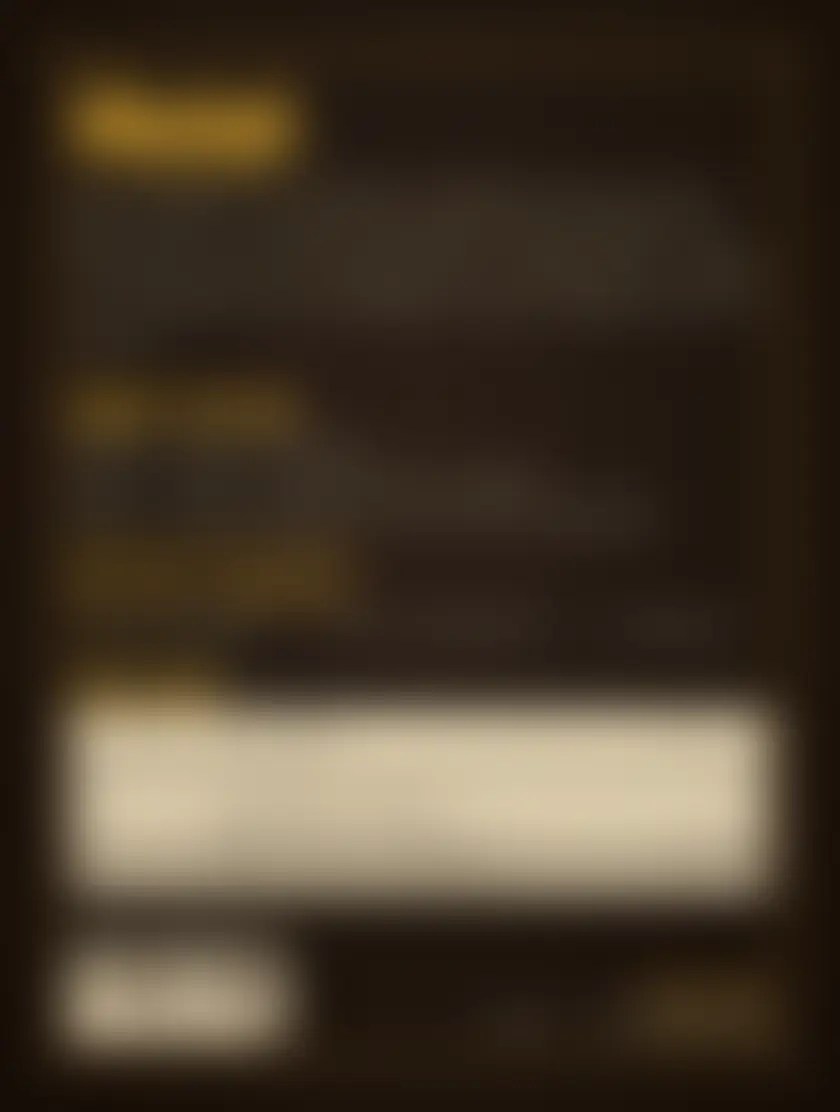
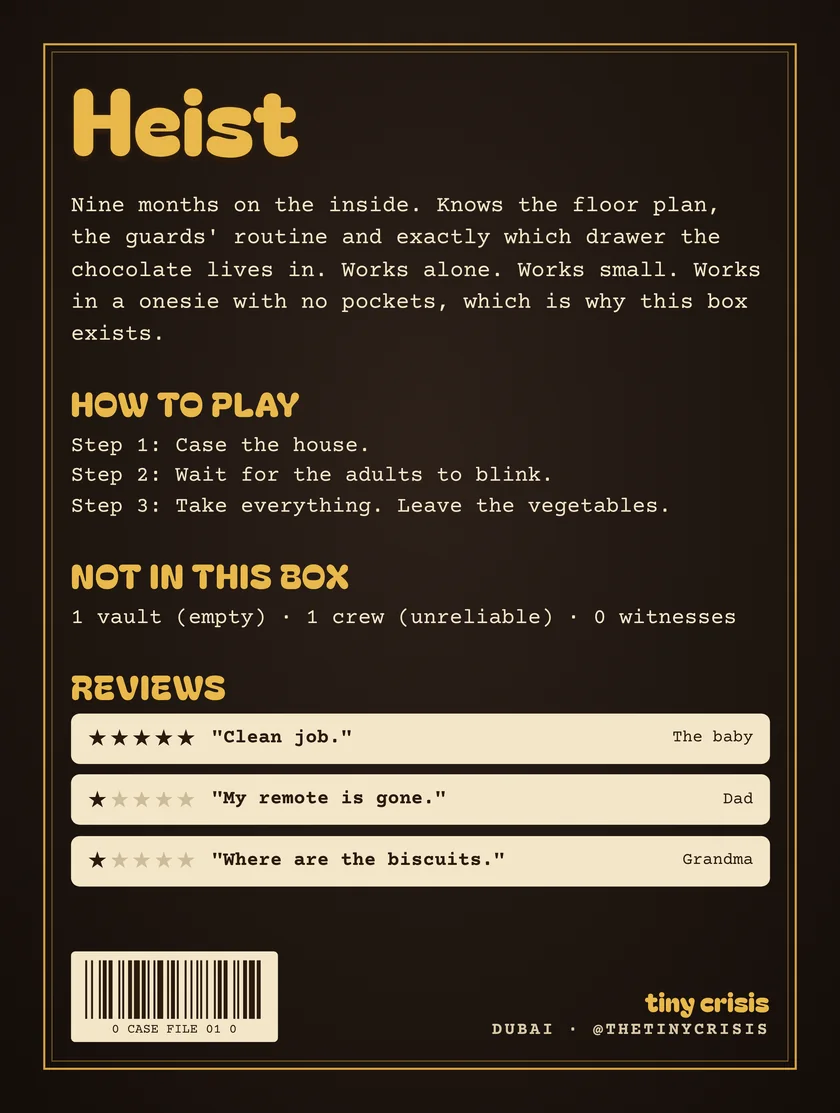
Update teaser

diff --git a/index.html b/index.html
@@ -7,16 +7,17 @@
 <meta name="description" content="Baby shower gift boxes with a dark sense of humour. Your gift goes inside. Their name goes on the front. Designed in Dubai, opening soon.">
 <meta property="og:title" content="Tiny Crisis · Baby's First Bad Decision">
 <meta property="og:description" content="Baby shower gift boxes with a dark sense of humour. Your gift goes inside. Their name goes on the front.">
-<meta property="og:image" content="https://thetinycrisis.com/img/og-sealed.jpg">
+<meta property="og:image" content="https://thetinycrisis.com/img/og-heist.jpg">
 <meta property="og:image:width" content="1200">
 <meta property="og:image:height" content="630">
-<meta property="og:image:alt" content="Hands holding a black gift box sealed with gold Classified tape and a red tiny crisis seal, the name Noor on the label.">
+<meta property="og:image:alt" content="The Tiny Crisis gift box Baby's First Heist: a cartoon baby in a ski mask in a bank vault, with the name Aria on the label.">
 <meta property="og:url" content="https://thetinycrisis.com/">
 <meta name="twitter:card" content="summary_large_image">
 <meta name="theme-color" content="#7F1A1E">
 <link rel="icon" href="favicon.svg" type="image/svg+xml">
+<link rel="preload" href="img/face-front.webp" as="image" type="image/webp">
 <link rel="preload" href="fonts/bagel-fat-one-latin-400-normal.woff2" as="font" type="font/woff2" crossorigin>
-<link rel="stylesheet" href="style.css?v=20261110a">
+<link rel="stylesheet" href="style.css?v=20261110b">
 </head>
 <body>
 
@@ -29,31 +30,31 @@
 
 <main id="top">
 
-<!-- 1. What it is, sealed: the real box shape, blurred art, only her name in focus -->
+<!-- 1. What it is (10 Nov reset): the real Heist box, her name on the label -->
 <section class="hero">
   <div class="wrap hero-in">
     <div class="hero-copy">
       <p class="kicker">Baby shower gift boxes · Dubai</p>
-      <h1>Something is being <span>wrapped.</span></h1>
-      <p class="lede">A gift box for a new baby, with a dark sense of humour. Your gift goes inside. Their name goes on the front. The rest is classified.</p>
-      <p class="hero-cta"><a class="btn big" id="heroBtn" href="#join" aria-haspopup="dialog">Be first to see it</a><span class="soon"><span>Coming soon</span></span></p>
+      <h1>The gift everyone <span>passes around.</span></h1>
+      <p class="lede">A joke about the baby on the front. Their name on the label. Your gift goes inside.</p>
+      <p class="hero-cta"><a class="btn big" id="heroBtn" href="#join" aria-haspopup="dialog">Join the list</a><span class="soon"><span>Coming soon</span></span></p>
     </div>
     <div class="stage">
-      <div class="scene" id="scene" aria-label="A sealed gift box. Drag to spin it.">
+      <div class="scene" id="scene" aria-label="The Heist gift box: a cartoon baby in a ski mask in a bank vault. Drag to spin it.">
         <div class="box" id="box">
-          <div class="face f-front"><img src="img/face-front.webp" alt=""><span class="band h split" aria-hidden="true"><em>CLASSIFIED</em><em>CLASSIFIED</em></span><span class="band v split" aria-hidden="true"><b>CLASSIFIED</b><b>CLASSIFIED</b></span><span class="seal" aria-hidden="true">tiny<br>crisis</span><span class="namelabel" aria-hidden="true"><small>Suspect</small><b id="nameOut">Their name</b></span></div>
-          <div class="face f-back"><img src="img/face-back.webp" alt=""><span class="band h" aria-hidden="true">CLASSIFIED · CLASSIFIED</span><span class="band v" aria-hidden="true"><b>CLASSIFIED · CLASSIFIED · CLASSIFIED</b></span></div>
-          <div class="face f-right"><img src="img/face-right.webp" alt=""><span class="band h" aria-hidden="true">CLASSIFIED</span></div>
-          <div class="face f-left"><img src="img/face-left.webp" alt=""><span class="band h" aria-hidden="true">CLASSIFIED</span></div>
-          <div class="face f-bottom"><i></i><span class="band v" aria-hidden="true"><b>CLASSIFIED</b></span></div>
-          <div class="face f-top"><img src="img/face-top.webp" alt=""><span class="band v" aria-hidden="true"><b>CLASSIFIED</b></span></div>
+          <div class="face f-front"><img src="img/face-front.webp" alt="" fetchpriority="high"><span class="namelabel" aria-hidden="true"><small>Suspect</small><b id="nameOut">Their name</b></span></div>
+          <div class="face f-back"><img src="img/face-back.webp" alt=""></div>
+          <div class="face f-right"><img src="img/face-right.webp" alt=""></div>
+          <div class="face f-left"><img src="img/face-left.webp" alt=""></div>
+          <div class="face f-bottom"><i></i></div>
+          <div class="face f-top"><img src="img/face-top.webp" alt=""></div>
         </div>
       </div>
       <p class="spinhint" id="spinHint"><i aria-hidden="true">&#8596;</i> Drag the box to spin it</p>
-      <label class="namefield" for="nameIn">Who's it for? <small>The only thing we'll show you clearly</small>
+      <label class="namefield" for="nameIn">Who's it for? <small>It goes on the label</small>
         <input id="nameIn" maxlength="14" autocomplete="off" autocapitalize="words" enterkeyhint="done" placeholder="Type the baby's name">
       </label>
-      <button type="button" class="btn sealbtn" id="sealBtn" hidden>Seal the file</button>
+      <button type="button" class="btn sealbtn" id="sealBtn" hidden>Get this box first</button>
     </div>
   </div>
 </section>
@@ -64,28 +65,28 @@
     <h2 class="rv">Every baby shower ends the same way.</h2>
     <div class="pair rv" id="pair">
       <figure><img src="img/typical.webp" alt="A pile of pastel gift bags and teddy bears after a baby shower." loading="lazy" width="720" height="900"><figcaption><b><s>Typical.</s></b> The pile.</figcaption></figure>
-      <figure><img src="img/hands-box.webp" alt="Hands holding a sealed Tiny Crisis box at a baby shower." loading="lazy" width="720" height="900"><figcaption><b>Not typical.</b> The one everyone asks about.</figcaption></figure>
+      <figure><img src="img/hands-heist.webp" alt="A woman at a baby shower holds the Heist gift box, the name Aria on its label." loading="lazy" width="720" height="900"><figcaption><b>Not typical.</b> The one everyone asks about.</figcaption></figure>
     </div>
   </div>
 </section>
 
-<!-- 2b. Evidence strip (3 Nov): the brand world in pictures, staged scenes labelled honestly -->
+<!-- 2b. Meet Heist (10 Nov reset): the real art in real rooms, labelled honestly as preview pictures -->
 <section class="sec exh">
   <div class="wrap">
-    <h2 class="rv">From The Tiny Crisis Times.</h2>
-    <p class="exh-sub">Evidence, so far.<span class="exh-swipe"> Swipe, or tap one.</span></p>
-    <div class="exh-strip rv" id="exhStrip" tabindex="0" aria-label="Pictures from The Tiny Crisis Times">
-      <figure data-full="img/ev-frontpage-lg.webp"><img src="img/ev-frontpage.webp" alt="A woman hides behind a newspaper: The Tiny Crisis Times, baby shower gifts, a crisis." loading="lazy" width="720" height="900"><figcaption><b>Exhibit A</b> Front page news.</figcaption></figure>
-      <figure data-full="img/ev-giantbox-lg.webp"><img src="img/ev-giantbox.webp" alt="A woman peeks over a giant sealed black gift box with gold Classified tape." loading="lazy" width="720" height="900"><figcaption><b>Exhibit B</b> Not to scale. Probably.</figcaption></figure>
-      <figure data-full="img/ev-chat-lg.webp"><img src="img/ev-chat.webp" alt="The baby shower committee group chat at 11:46 pm: the gift is in an ironed shopping bag." loading="lazy" width="720" height="900"><figcaption><b>Exhibit C</b> Read at 11:46 pm.</figcaption></figure>
-      <figure data-full="img/ev-incident-lg.webp"><img src="img/ev-incident.webp" alt="Gift Desk incident report: gift opened before the cake, Uncle Karim the suspect, under review." loading="lazy" width="720" height="900"><figcaption><b>Exhibit D</b> Case still open.</figcaption></figure>
+    <h2 class="rv">Meet Heist.</h2>
+    <p class="exh-sub">Case file Nº 01.<span class="exh-swipe"> Swipe, or tap one.</span></p>
+    <div class="exh-strip rv" id="exhStrip" tabindex="0" aria-label="Pictures of the Heist gift box">
+      <figure data-full="img/ev-table-lg.webp"><img src="img/ev-table.webp" alt="The Heist gift box standing on a baby shower gift table, in front of pastel gift bags." loading="lazy" width="720" height="900"><figcaption><b>Exhibit A</b> Spot the one that isn't a bag.</figcaption></figure>
+      <figure data-full="img/ev-open-lg.webp"><img src="img/ev-open.webp" alt="The box open from above: a newborn outfit, a knitted blanket, socks and a soft bunny inside." loading="lazy" width="720" height="900"><figcaption><b>Exhibit B</b> Your gift goes inside.</figcaption></figure>
+      <figure data-full="img/ev-lap-lg.webp"><img src="img/ev-lap.webp" alt="A mum-to-be holds the Heist box on her lap while a friend points at it." loading="lazy" width="720" height="900"><figcaption><b>Exhibit C</b> Made to be read out loud.</figcaption></figure>
+      <figure data-full="img/ev-reviews-lg.webp"><img src="img/ev-reviews.webp" alt="The back of the Heist box: how to play, and reviews from the baby, Dad and Grandma." loading="lazy" width="720" height="900"><figcaption><b>Exhibit D</b> The back has reviews.</figcaption></figure>
     </div>
     <p class="exh-dots" id="exhDots" aria-hidden="true"><i class="on"></i><i></i><i></i><i></i></p>
-    <p class="micro exh-note">Staged scenes. The real box arrives with the first look, and the list sees it first.</p>
+    <p class="micro exh-note">Preview pictures: our real art on a sample-size box. The printed samples are on their way, and the list sees them first.</p>
   </div>
 </section>
 
-<div class="tapeline" aria-hidden="true"><div><span>CLASSIFIED · CLASSIFIED · CLASSIFIED · CLASSIFIED · CLASSIFIED · CLASSIFIED · CLASSIFIED · CLASSIFIED · CLASSIFIED · CLASSIFIED · CLASSIFIED · CLASSIFIED · </span><span>CLASSIFIED · CLASSIFIED · CLASSIFIED · CLASSIFIED · CLASSIFIED · CLASSIFIED · CLASSIFIED · CLASSIFIED · CLASSIFIED · CLASSIFIED · CLASSIFIED · CLASSIFIED · </span></div></div>
+<div class="tapeline" aria-hidden="true"><div><span>BABY'S FIRST BAD DECISION · BABY'S FIRST BAD DECISION · BABY'S FIRST BAD DECISION · BABY'S FIRST BAD DECISION · BABY'S FIRST BAD DECISION · BABY'S FIRST BAD DECISION · </span><span>BABY'S FIRST BAD DECISION · BABY'S FIRST BAD DECISION · BABY'S FIRST BAD DECISION · BABY'S FIRST BAD DECISION · BABY'S FIRST BAD DECISION · BABY'S FIRST BAD DECISION · </span></div></div>
 
 <!-- 3. Drop the rattle → join (28 Oct: replaces the unwrap game). Every slot is a real list perk. -->
 <section class="sec join" id="join">
@@ -158,6 +159,6 @@
 </footer>
 
 <script src="track.js?v=20261102a" defer></script>
-<script src="app.js?v=20261110a" defer></script>
+<script src="app.js?v=20261110b" defer></script>
 </body>
 </html>

diff --git a/app.js b/app.js
@@ -1,4 +1,4 @@
-// Tiny Crisis teaser: three things only. A sealed 360 box with her name in focus,
+// Tiny Crisis teaser: the real Heist box in 360 with her name on the label,
 // the pile vs the one box, and a rattle to drop through a peg board that ends at the list.
 (() => {
   // MailerLite "Tiny Crisis waitlist" form (group: Founding 50 waitlist). The email is sent from this page, no new tab (28 Oct).
@@ -56,8 +56,8 @@
     if (!canModal) return;                                          // very old browsers: the link still scrolls to #join
     e.preventDefault();
     const named = from === 'seal' && babyName;
-    mTitle.textContent = named ? `${poss(babyName)} file is sealed.` : 'Get the first look.';
-    mSub.textContent = named ? 'Be first to see what goes on the front.' : 'Free, and it takes five seconds.';
+    mTitle.textContent = named ? `${poss(babyName)} file is open.` : 'Get the first look.';
+    mSub.textContent = named ? 'The list gets first pick of the first 50 boxes.' : 'Free, and it takes five seconds.';
     const mine = named && babyName.length <= 8;                       // longer names would wrap the button: the title carries them instead
     mBtn.textContent = prize ? 'Claim my prize' : mine ? `Join for ${poss(babyName)} first look` : 'Join for the first look';
     mBtn.classList.toggle('long', !!mine && !prize);
@@ -133,7 +133,7 @@
     if (v) nameOut.style.setProperty('--ns', v.length > 6 ? (0.055 * 6 / v.length).toFixed(3) : '.055');   // long names shrink to fit
     else nameOut.style.removeProperty('--ns');                                                              // back to the small placeholder size
     babyName = v; sealBtn.hidden = !v;
-    if (v) { sealBtn.textContent = `Seal ${poss(v)} file`; if (!intro) ty = Math.round(ty / 360) * 360 - 18; auto = false; }   // the box turns to show her the label
+    if (v) { sealBtn.textContent = `Get ${poss(v)} box first`; if (!intro) ty = Math.round(ty / 360) * 360 - 18; auto = false; }   // the box turns to show her the label
     else auto = !reduce;
   });
   const sealBtn = $('sealBtn');

diff --git a/style.css b/style.css
@@ -449,3 +449,15 @@ html.modal-open,html.modal-open body{overflow:hidden}
 .foot{background:var(--night);border-top:1px solid rgba(243,230,200,.12)}
 .mform .btn.big.long{font-size:19px;padding:0 14px}
 @media (min-width:900px){.pair{max-width:780px}}
+
+/* ---------- 10 Nov reset: the real Heist box, no tape, the name sits on the art's own label ---------- */
+.namelabel{left:5.1%;top:80.7%;width:36.6%;height:8.8%;rotate:-2deg;background:#F3E6C8;border:0;border-radius:0;box-shadow:none;padding:2.2% 4% 0}
+.namelabel small{color:#8C1D2C}
+.namelabel b{border-bottom:1px dashed rgba(42,26,14,.45)}
+.f-left img,.f-right img{filter:brightness(.7)}
+.f-top img{filter:brightness(1.1)}
+h1{font-size:clamp(50px,7vw,88px)}
+@media (max-width:820px){h1{font-size:clamp(40px,11.8vw,56px)}}
+.tapeline div{animation-duration:60s}
+h1{font-size:clamp(44px,5.6vw,72px)}
+@media (max-width:820px){h1{font-size:clamp(38px,11vw,52px)}}
